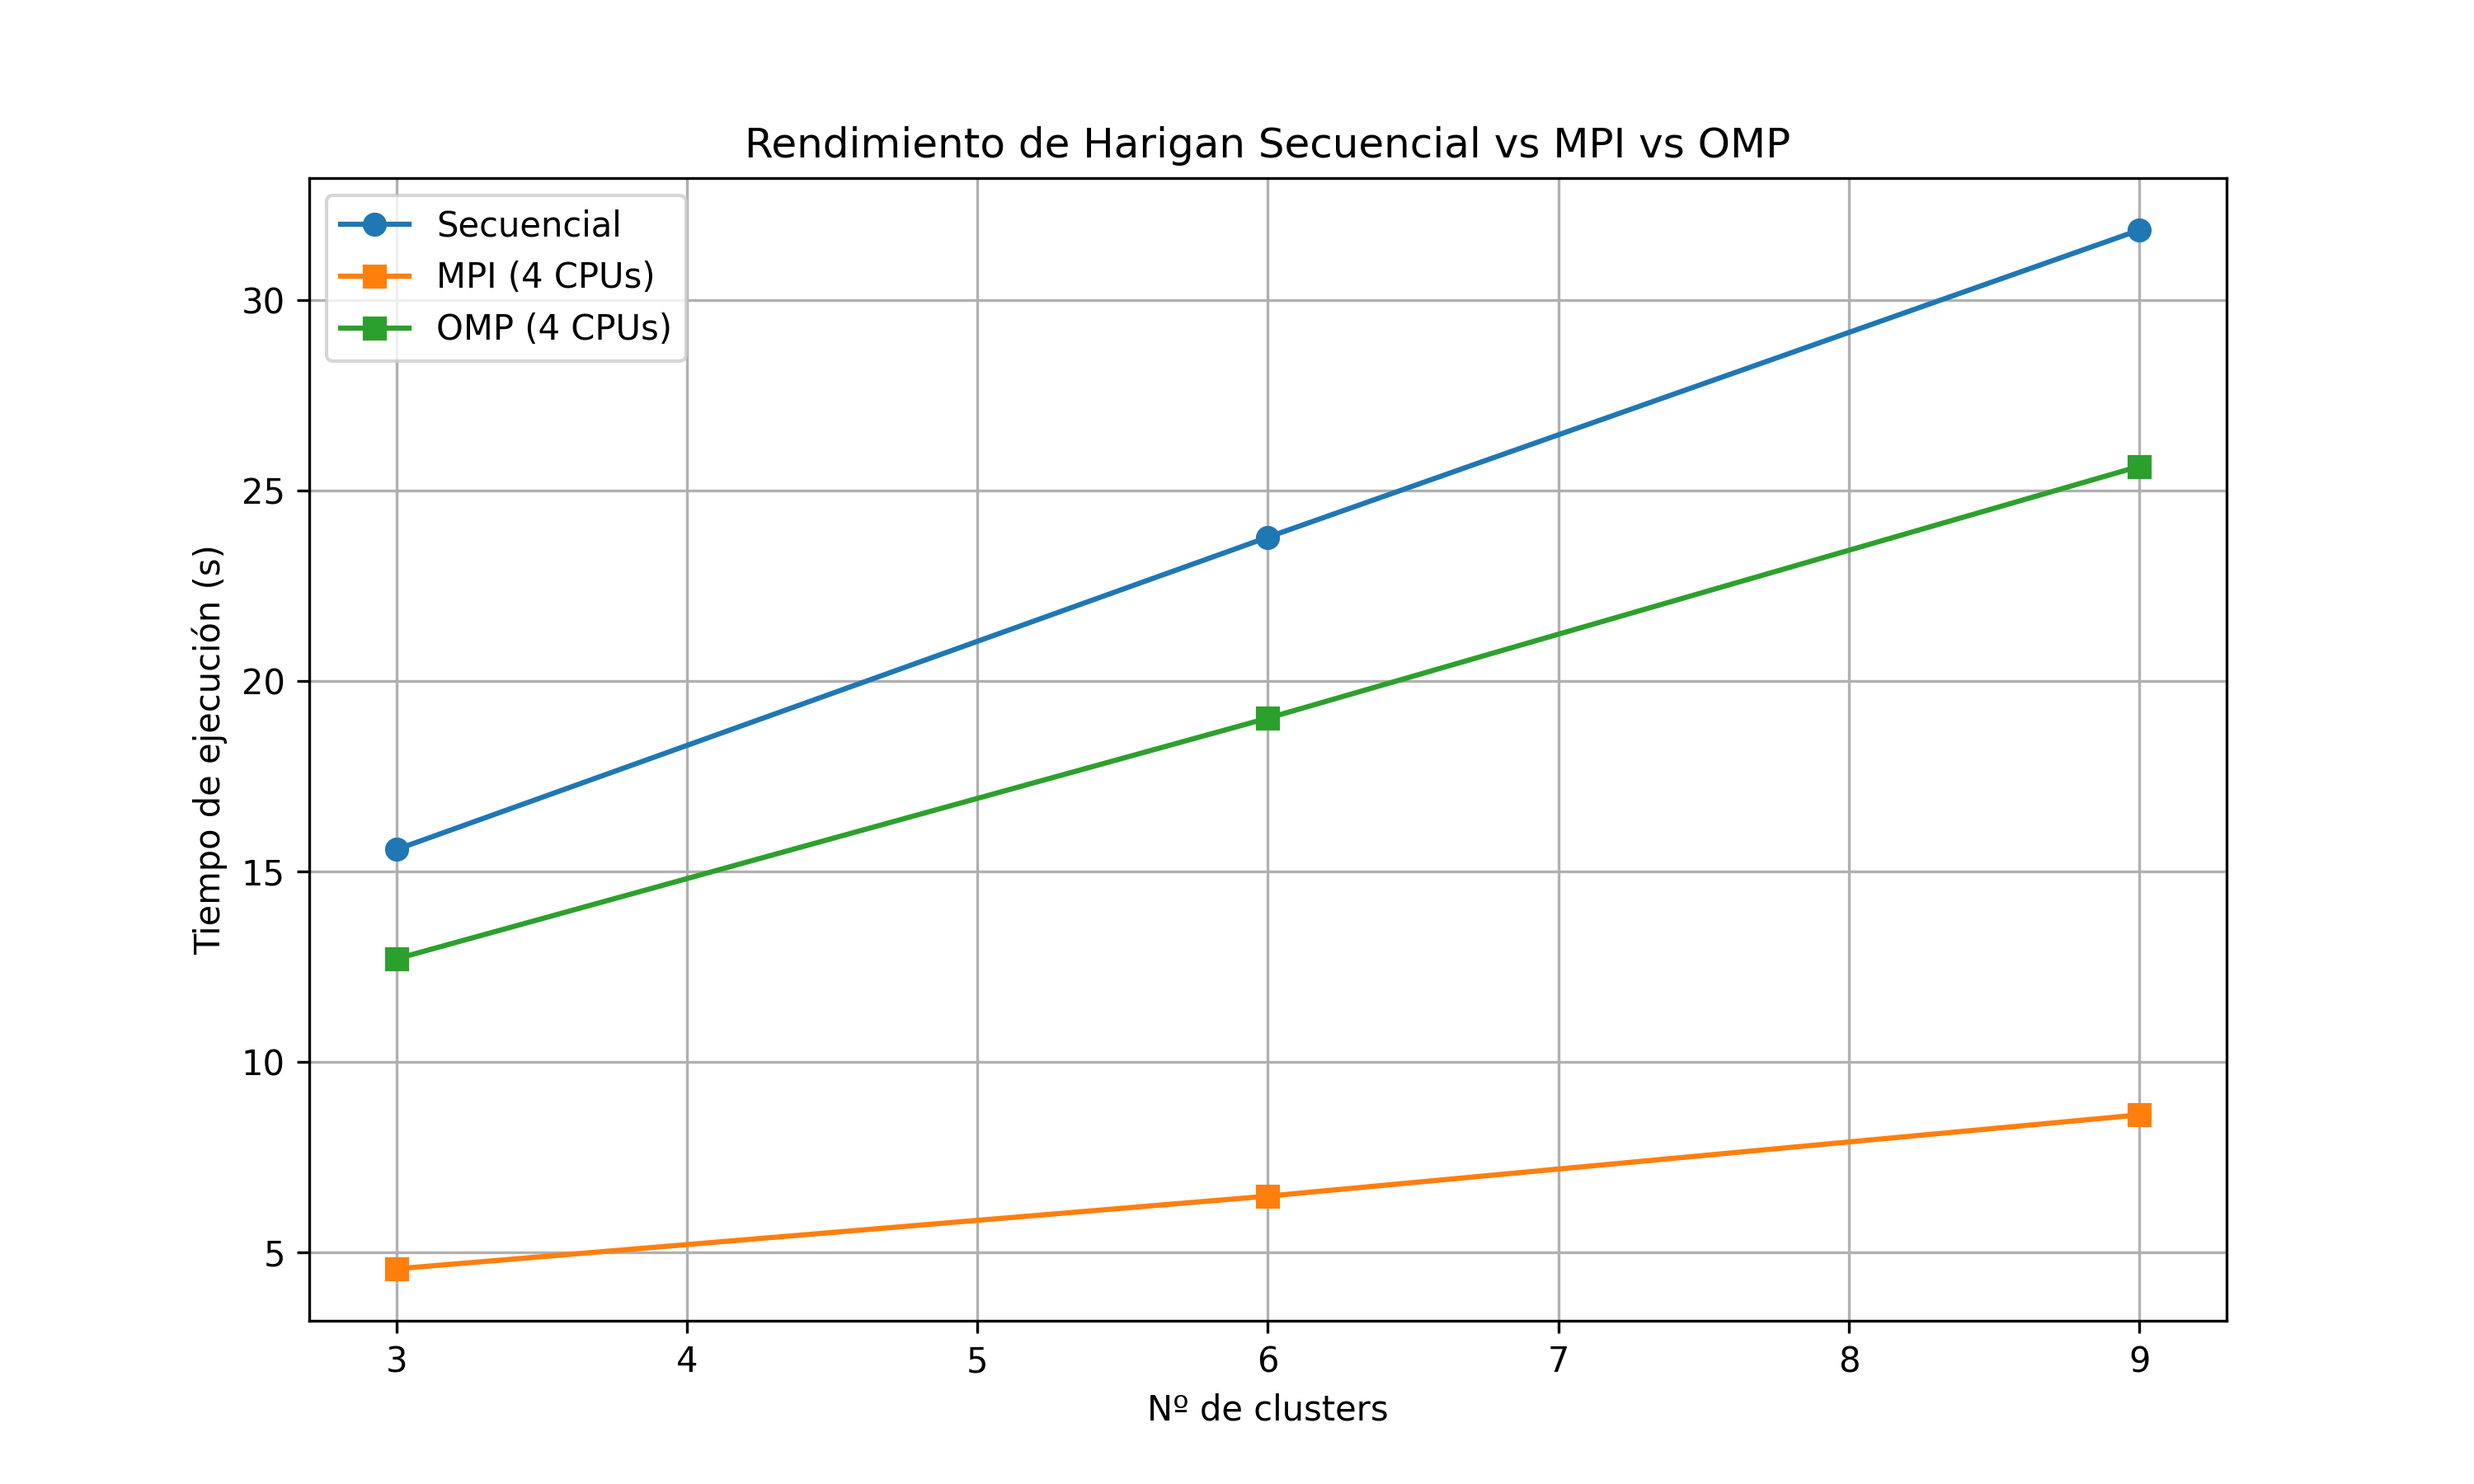
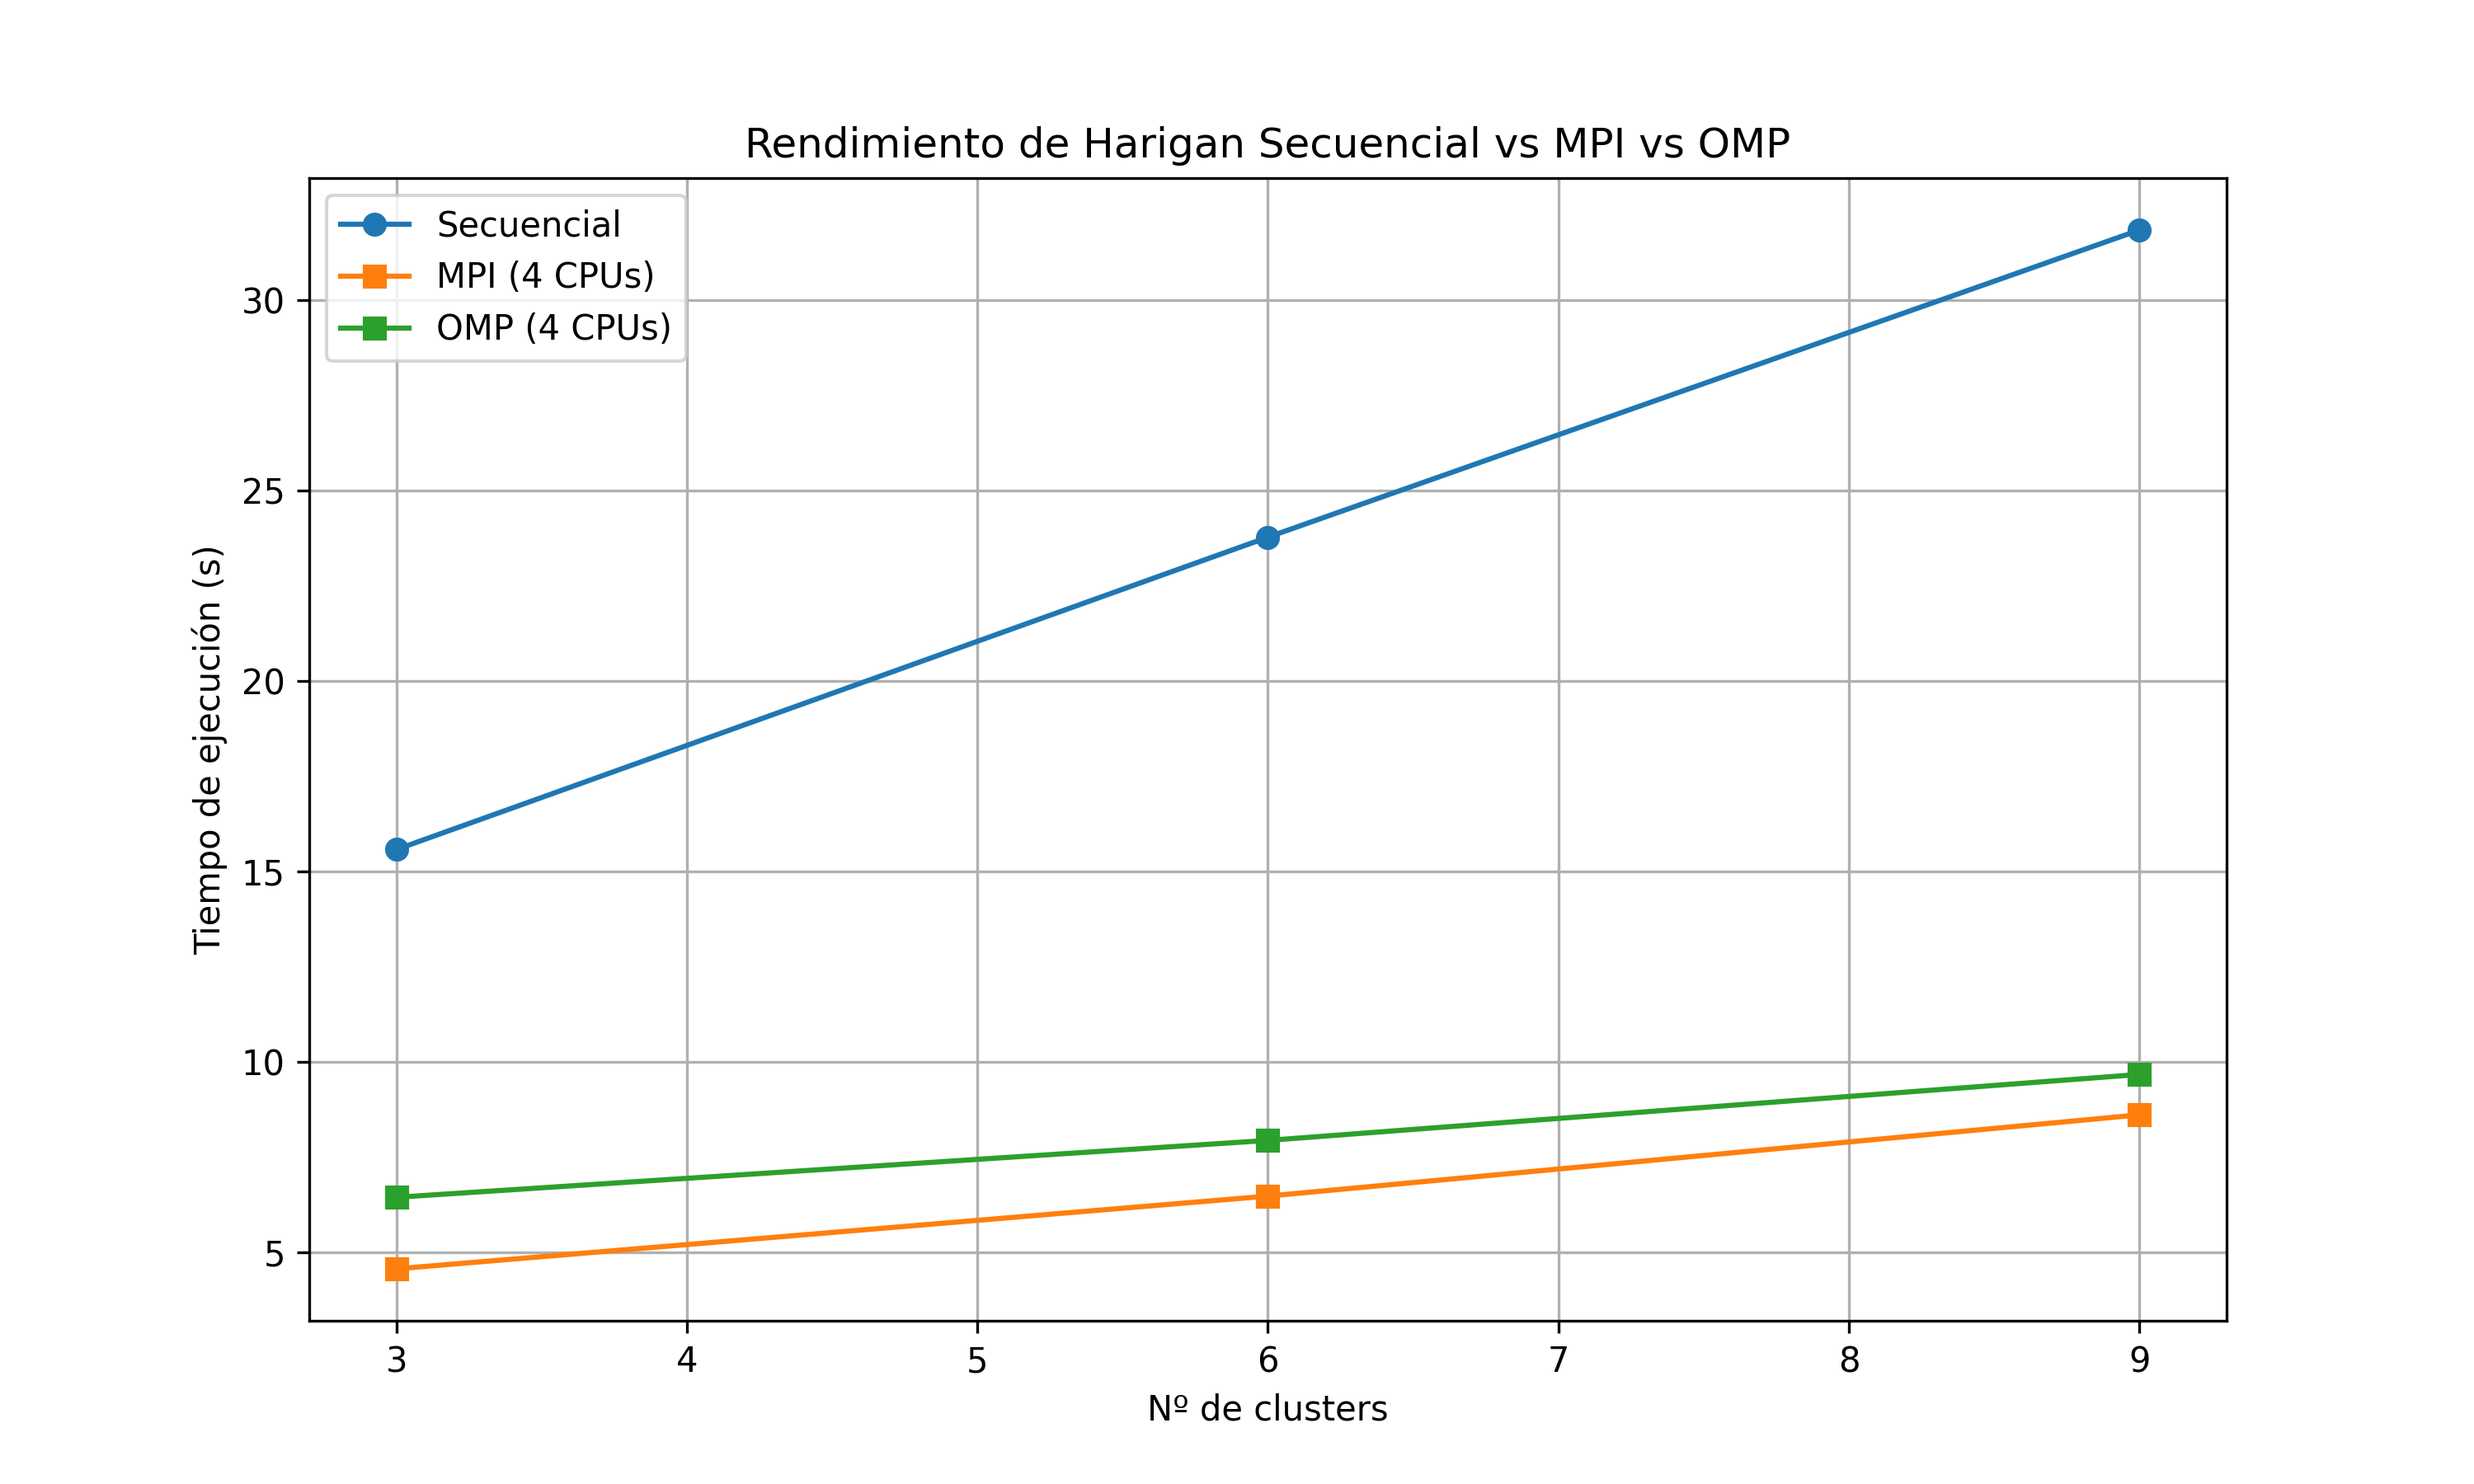
Executed with omp and plotted comparison

diff --git a/src/hartigan_omp.cpp b/src/hartigan_omp.cpp
@@ -10,7 +10,7 @@
 
 const std::string FILE_PATH = "pavia.txt";
 const float HARTIGAN_THRESHOLD = 50.0;
-const int K = 3;
+const int K = 9;
 
 Eigen::MatrixXf load_data(const std::string& file_path) {
     std::ifstream file(file_path);
@@ -90,6 +90,7 @@ int main() {
         while (true) {
             auto centroides_anterior = centroides;
 
+            #pragma omp parallel for
             for (int i = 0; i < data.rows(); ++i) {
                 float min_dist = std::numeric_limits<float>::max();
                 int min_dist_idx = -1;
@@ -105,6 +106,7 @@ int main() {
 
             float inercia_anterior = 0.0;
             float inercia_actual = 0.0;
+            #pragma omp parallel for reduction(+:inercia_anterior, inercia_actual)
             for (int i = 0; i < data.rows(); ++i) {
                 inercia_anterior += distancia_cuadrada(data.row(i), centroides_anterior[asignaciones[i]]);
                 inercia_actual += distancia_cuadrada(data.row(i), centroides[asignaciones[i]]);

diff --git a/plot_performance.py b/plot_performance.py
@@ -4,7 +4,7 @@ def plot_performance():
     # Tiempos para K = 3, 6 y 9
     exec_times_hartigan_seq = [15.56712818145752, 23.76786470413208, 31.83247709274292]
     exec_times_hartigan_mp = [4.559414625167847, 6.4686057567596436, 8.601719617843628]
-    exec_times_hartigan_omp = [12.6973, 19.0171, 25.6292]
+    exec_times_hartigan_omp = [6.43763, 7.93107, 9.6626]
     n_clusters = [3, 6, 9]
 
     plt.figure(figsize=(10, 6))
